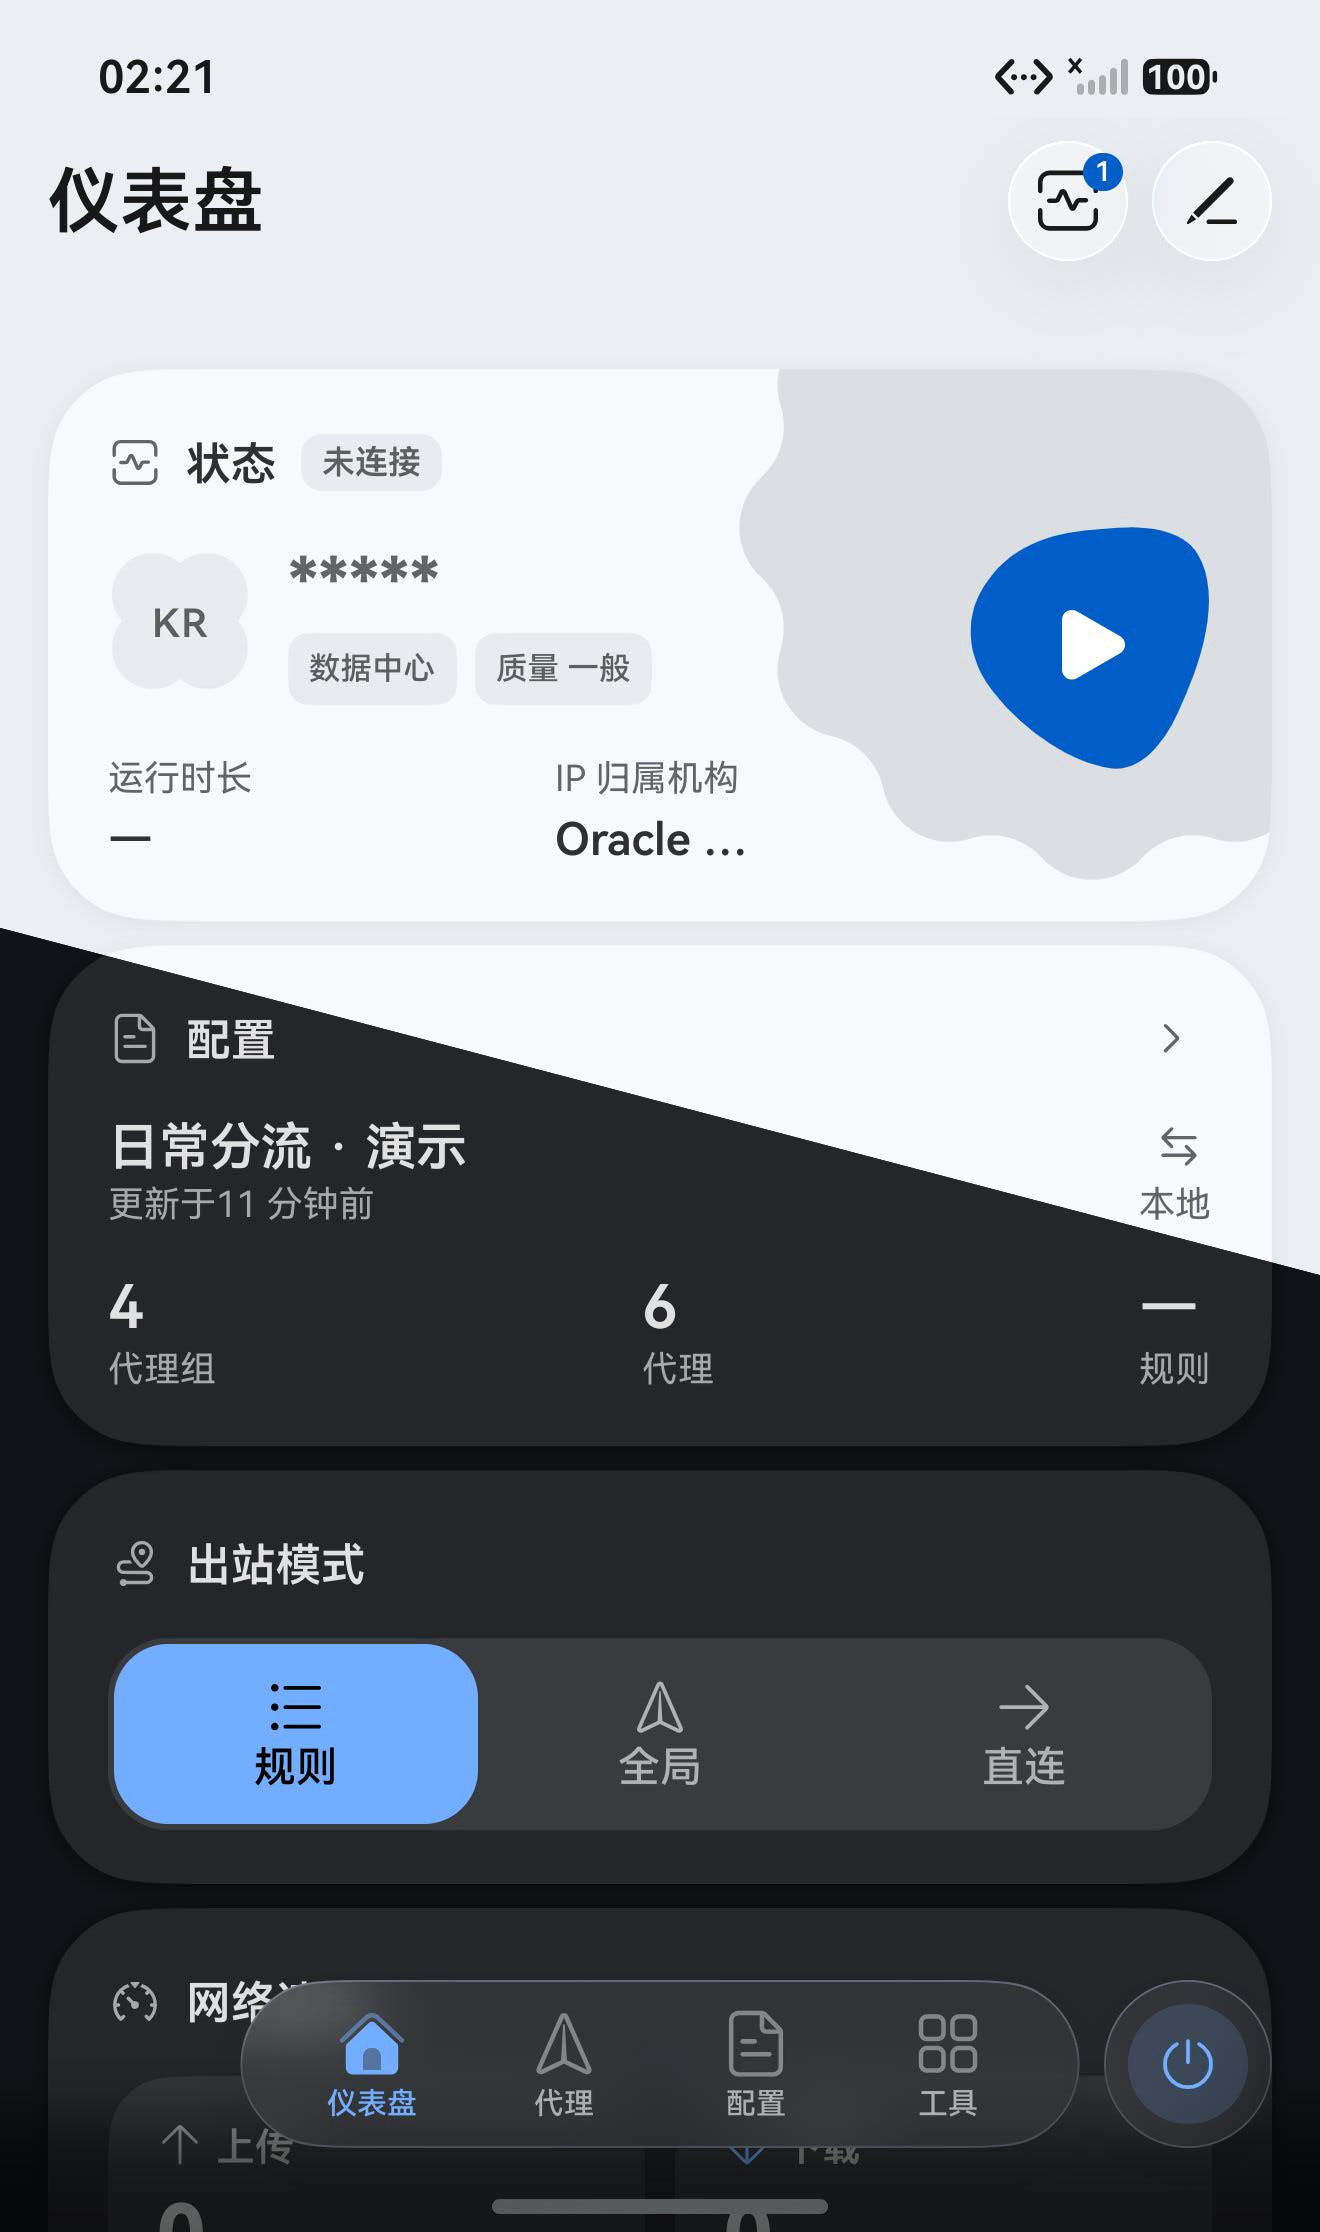
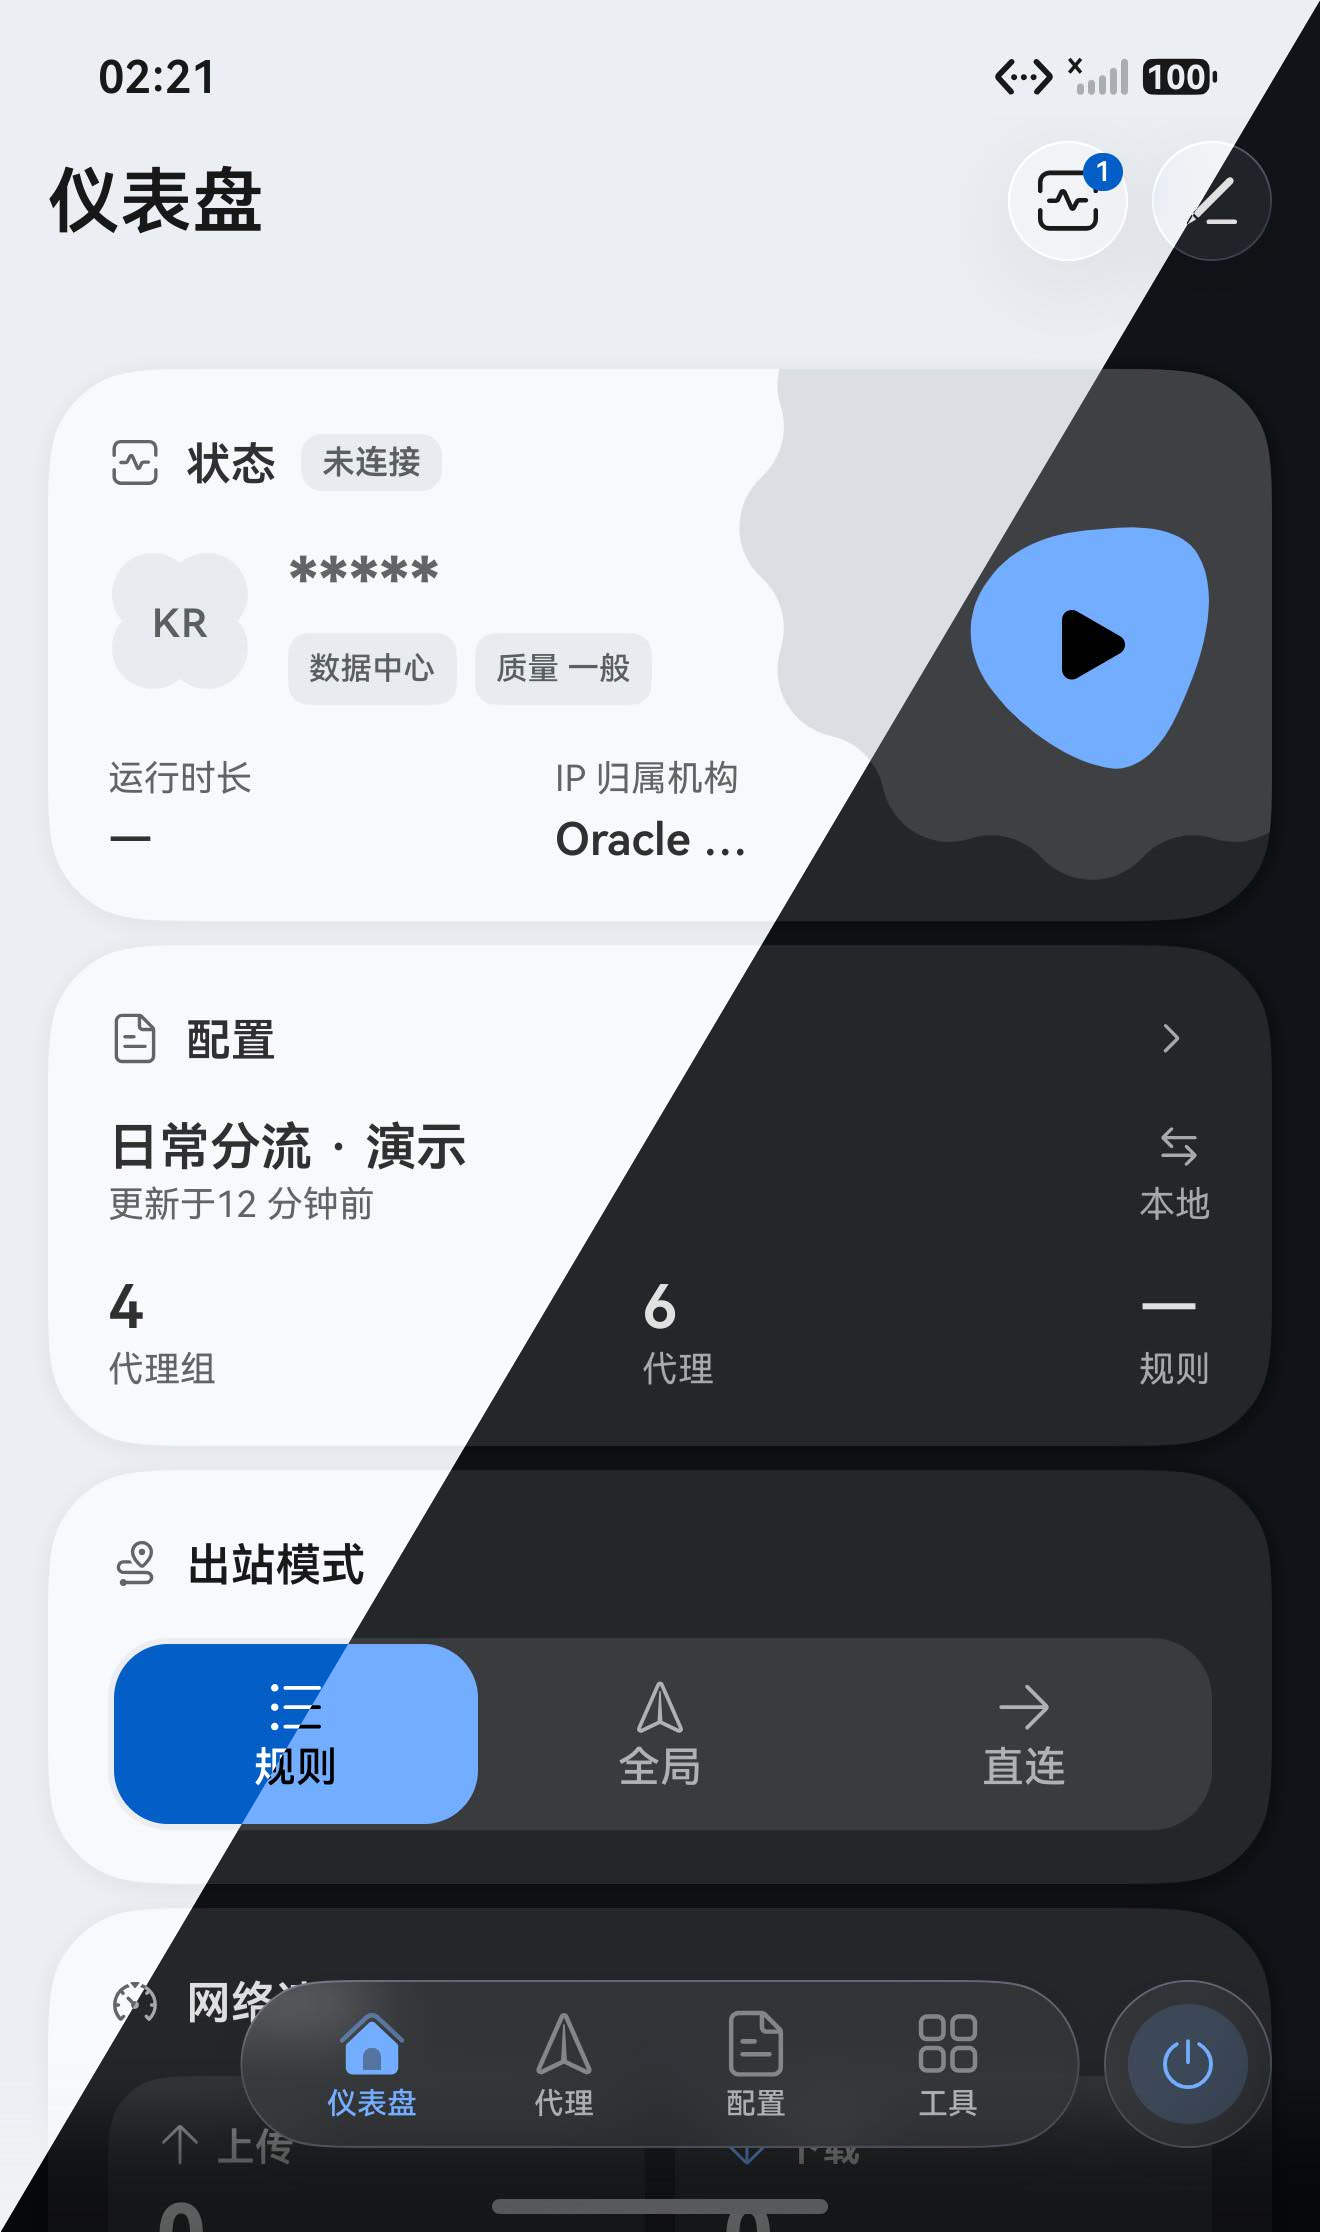
docs(readme): 调整仪表盘截图斜线方向
从左下角到右上角斜切，上方用亮色截图，下方用暗色截图。

Changed region(s): [[0.0, 0.0, 1.0, 1.0]]

diff --git a/README.md b/README.md
@@ -7,7 +7,7 @@
 
 基于 mihomo 的原生 HarmonyOS NEXT 代理客户端。
 
-<img src="docs/assets/screenshot-dashboard.webp" width="400" alt="ArkClash 仪表盘，亮色上半部展示状态卡片和启动按钮，暗色下半部展示配置和出站模式">
+<img src="docs/assets/screenshot-dashboard.webp" width="400" alt="ArkClash 仪表盘由左下至右上的斜线分隔，上方亮色，下方暗色，状态卡片和启动按钮可见">
 
 ## 安装
 
